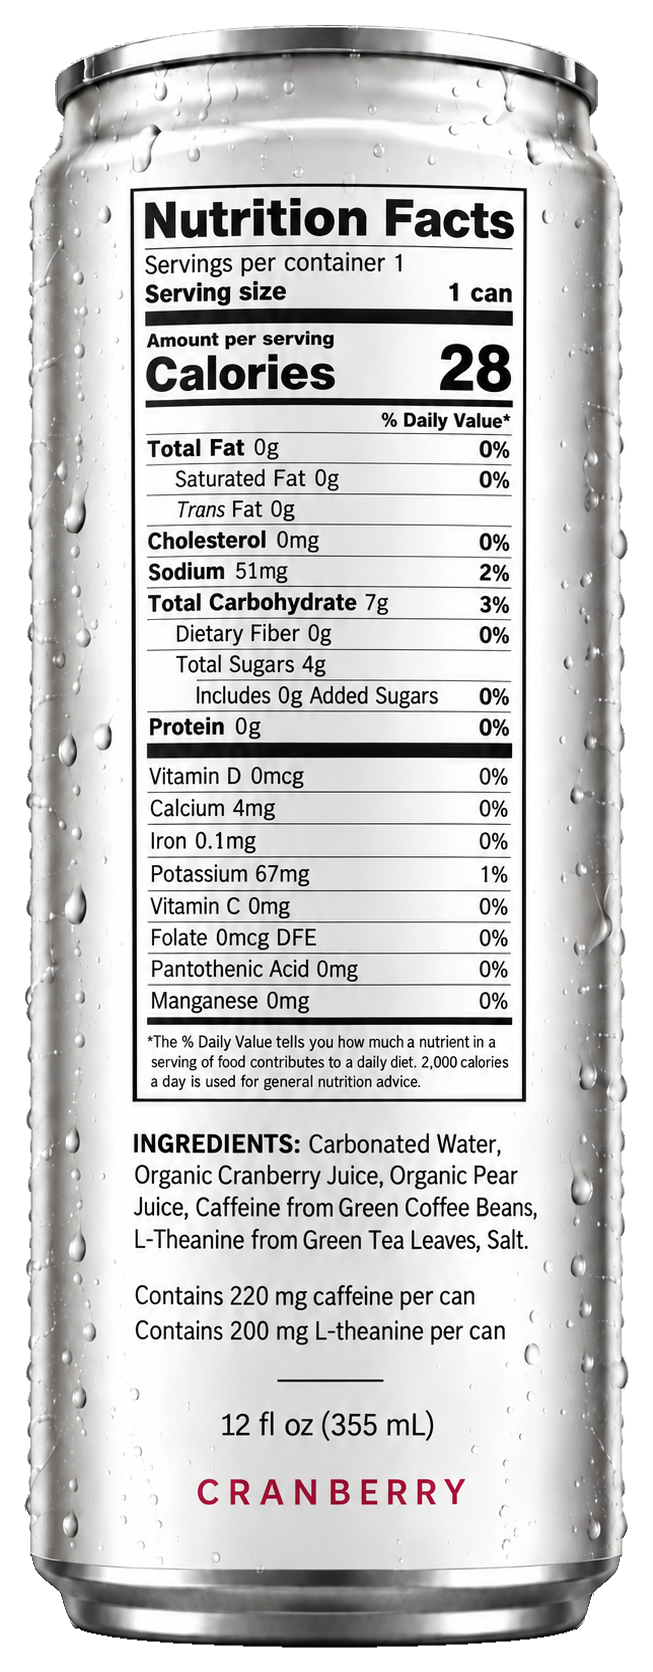
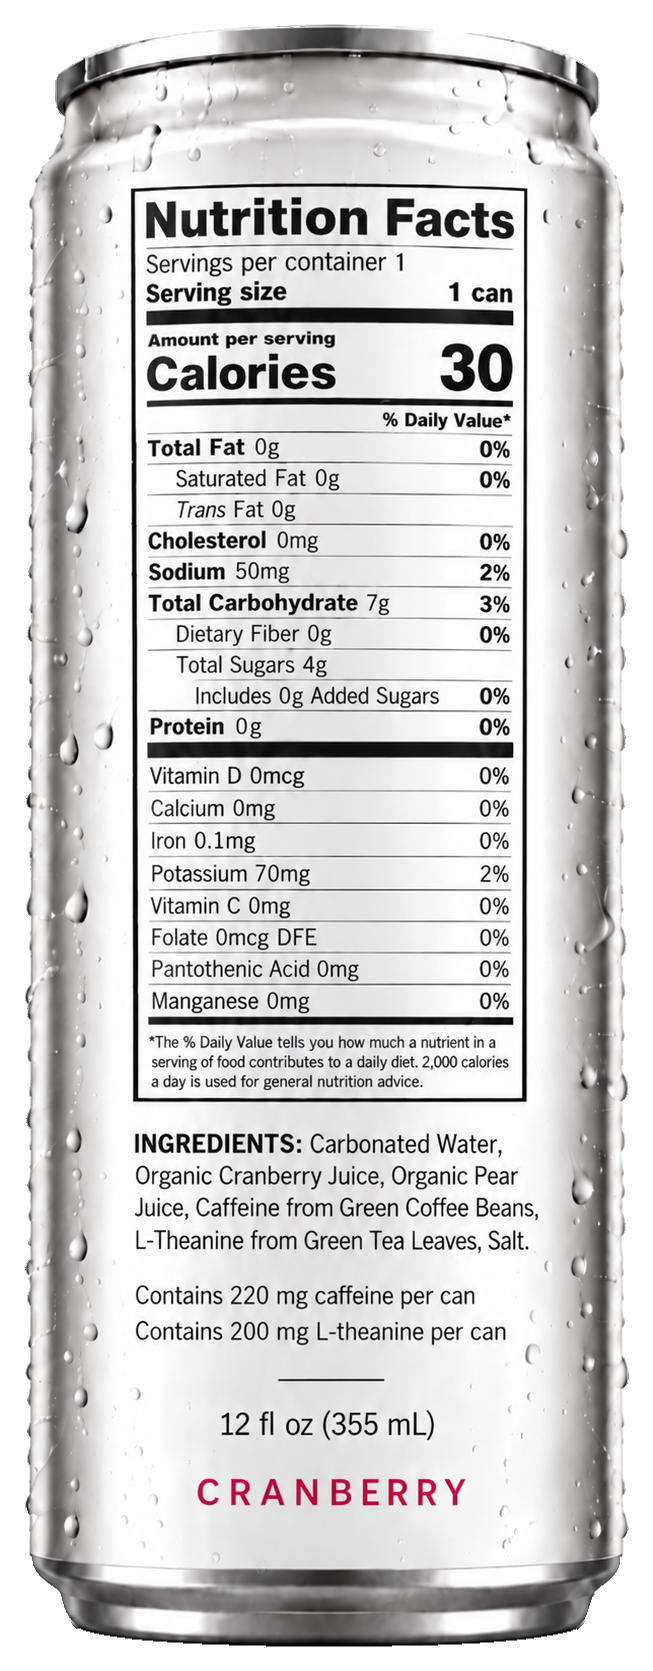
Corrected can labels: sync nutrition data and match the label's %DV rounding
Calcium, iron and potassium now match the FDA-rounded label art. Vitamin
and mineral %DV rounds in 2%/5%/10% steps as on the can; protein shows 0%.

Claude-Session: https://claude.ai/code/session_011c3exesg42141CUZ7vQSMs

diff --git a/src/lib/nutrition.ts b/src/lib/nutrition.ts
@@ -44,7 +44,7 @@ export const MICRONUTRIENT_DV: Record<string, { amount: number; unit: 'mg' | 'mc
 };
 
 /**
- * FDA rounds %DV to the nearest whole percent. Values that round to zero are
+ * Macronutrient %DV rounds to the nearest whole percent. Values that round to zero are
  * expressed as 0%, not omitted, when the nutrient is declared.
  */
 export const percentDV = (
@@ -52,6 +52,20 @@ export const percentDV = (
   dailyValue: number
 ): number | undefined =>
   amount === undefined ? undefined : Math.round((amount / dailyValue) * 100);
+
+/**
+ * Vitamins and minerals round %DV in steps, not to the nearest 1%
+ * (21 CFR 101.9(c)(8)(iii)): to the nearest 2% up to 10%, the nearest 5% from
+ * 10% to 50%, and the nearest 10% above that. Computed from the declared
+ * (already rounded) amount, which is how the can label does it, so the two
+ * agree: potassium 70mg is 1.5% and shows as 2%; calcium 10mg is 0.8% and
+ * shows as 0%.
+ */
+const roundMicronutrientPercent = (pct: number): number => {
+  if (pct < 10) return Math.round(pct / 2) * 2;
+  if (pct <= 50) return Math.round(pct / 5) * 5;
+  return Math.round(pct / 10) * 10;
+};
 
 export const micronutrientPercentDV = (
   name: string,
@@ -64,7 +78,7 @@ export const micronutrientPercentDV = (
   const amount = dv.unit === 'mg' ? amountMg : amountMcg;
   if (amount === undefined) return undefined;
 
-  return Math.round((amount / dv.amount) * 100);
+  return roundMicronutrientPercent((amount / dv.amount) * 100);
 };
 
 /** Formats a declared amount with its unit, dropping trailing zeros. Two

diff --git a/src/content/flavors/pomegranate.md b/src/content/flavors/pomegranate.md
@@ -16,11 +16,10 @@ juicePercent: 20
 canSizeFlOz: 12
 caffeineMg: 220
 lTheanineMg: 200
-# Nutrition Facts, from the can label (src/assets/six/six-can-pomegranate-back.png).
-# Calories and sodium are shown with FDA rounding (calories to the nearest 5
-# at 50 or under, sodium to the nearest 5 mg); the label draft said
-# 38 calories and 50 mg. Everything else is as printed, pending the
-# corrected labels. Keep this block and the label art in step.
+# Nutrition Facts, transcribed from the corrected can label
+# (src/assets/six/six-can-pomegranate-back.png, FDA rounding applied, 2026-10-12).
+# This block drives the live panel, the calorie line on the home page and the
+# Product JSON-LD. If the label art changes, change this in the same commit.
 nutrition:
   servingsPerContainer: 1
   servingSizeFlOz: 12
@@ -37,9 +36,9 @@ nutrition:
   proteinG: 0
   micronutrients:
     - { name: Vitamin D, amountMcg: 0 }
-    - { name: Calcium, amountMg: 5 }
+    - { name: Calcium, amountMg: 10 }
     - { name: Iron, amountMg: 0.1 }
-    - { name: Potassium, amountMg: 116 }
+    - { name: Potassium, amountMg: 120 }
     - { name: Vitamin C, amountMg: 6.6 }
     - { name: Folate, amountMcg: 14 }
     - { name: Pantothenic Acid, amountMg: 0.2 }

diff --git a/src/content/flavors/cranberry.md b/src/content/flavors/cranberry.md
@@ -16,11 +16,10 @@ juicePercent: 20
 canSizeFlOz: 12
 caffeineMg: 220
 lTheanineMg: 200
-# Nutrition Facts, from the can label (src/assets/six/six-can-cranberry-back.png).
-# Calories and sodium are shown with FDA rounding (calories to the nearest 5
-# at 50 or under, sodium to the nearest 5 mg); the label draft said
-# 28 calories and 51 mg. Everything else is as printed, pending the
-# corrected labels. Keep this block and the label art in step.
+# Nutrition Facts, transcribed from the corrected can label
+# (src/assets/six/six-can-cranberry-back.png, FDA rounding applied, 2026-10-12).
+# This block drives the live panel, the calorie line on the home page and the
+# Product JSON-LD. If the label art changes, change this in the same commit.
 nutrition:
   servingsPerContainer: 1
   servingSizeFlOz: 12
@@ -37,9 +36,9 @@ nutrition:
   proteinG: 0
   micronutrients:
     - { name: Vitamin D, amountMcg: 0 }
-    - { name: Calcium, amountMg: 4 }
+    - { name: Calcium, amountMg: 0 }
     - { name: Iron, amountMg: 0.1 }
-    - { name: Potassium, amountMg: 67 }
+    - { name: Potassium, amountMg: 70 }
     - { name: Vitamin C, amountMg: 0 }
     - { name: Folate, amountMcg: 0 }
     - { name: Pantothenic Acid, amountMg: 0 }

diff --git a/src/content/flavors/lemon.md b/src/content/flavors/lemon.md
@@ -16,11 +16,10 @@ juicePercent: 20
 canSizeFlOz: 12
 caffeineMg: 220
 lTheanineMg: 200
-# Nutrition Facts, from the can label (src/assets/six/six-can-lemon-back.png).
-# Calories and sodium are shown with FDA rounding (calories to the nearest 5
-# at 50 or under, sodium to the nearest 5 mg); the label draft said
-# 31 calories and 47 mg. Everything else is as printed, pending the
-# corrected labels. Keep this block and the label art in step.
+# Nutrition Facts, transcribed from the corrected can label
+# (src/assets/six/six-can-lemon-back.png, FDA rounding applied, 2026-10-12).
+# This block drives the live panel, the calorie line on the home page and the
+# Product JSON-LD. If the label art changes, change this in the same commit.
 nutrition:
   servingsPerContainer: 1
   servingSizeFlOz: 12
@@ -37,9 +36,9 @@ nutrition:
   proteinG: 0
   micronutrients:
     - { name: Vitamin D, amountMcg: 0 }
-    - { name: Calcium, amountMg: 8 }
+    - { name: Calcium, amountMg: 10 }
     - { name: Iron, amountMg: 0 }
-    - { name: Potassium, amountMg: 83 }
+    - { name: Potassium, amountMg: 80 }
     - { name: Vitamin C, amountMg: 8.9 }
     - { name: Folate, amountMcg: 0 }
     - { name: Pantothenic Acid, amountMg: 0 }
